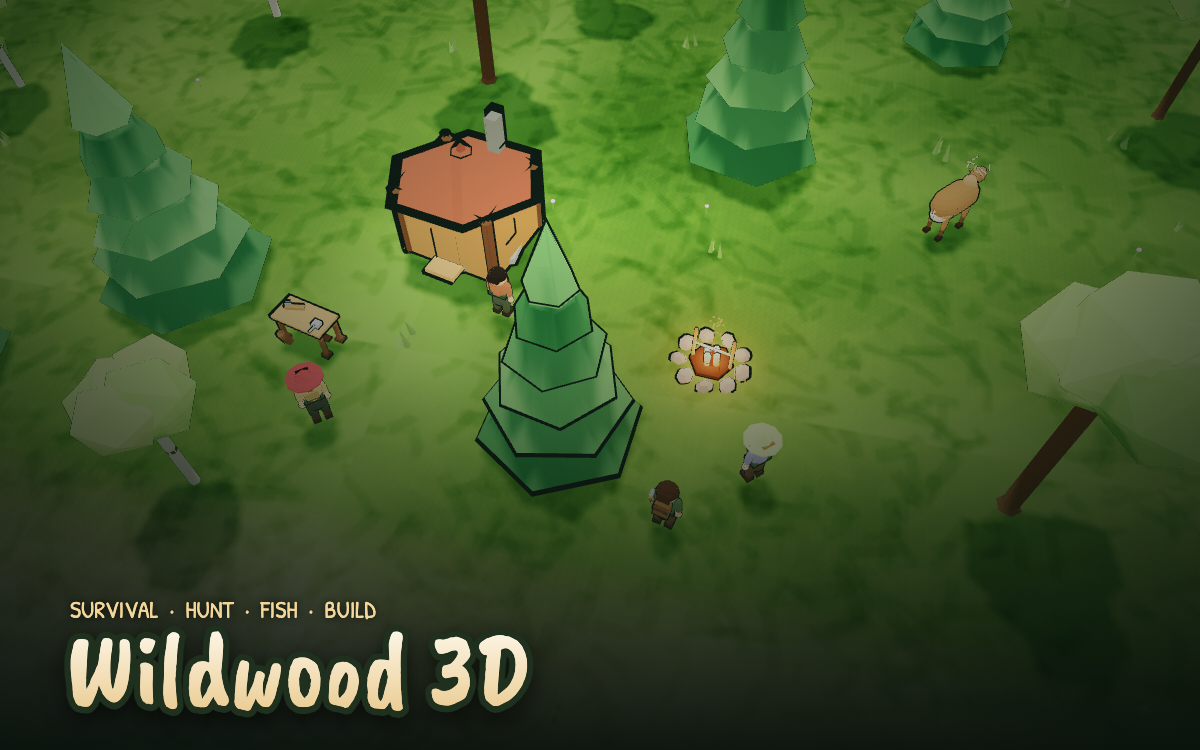
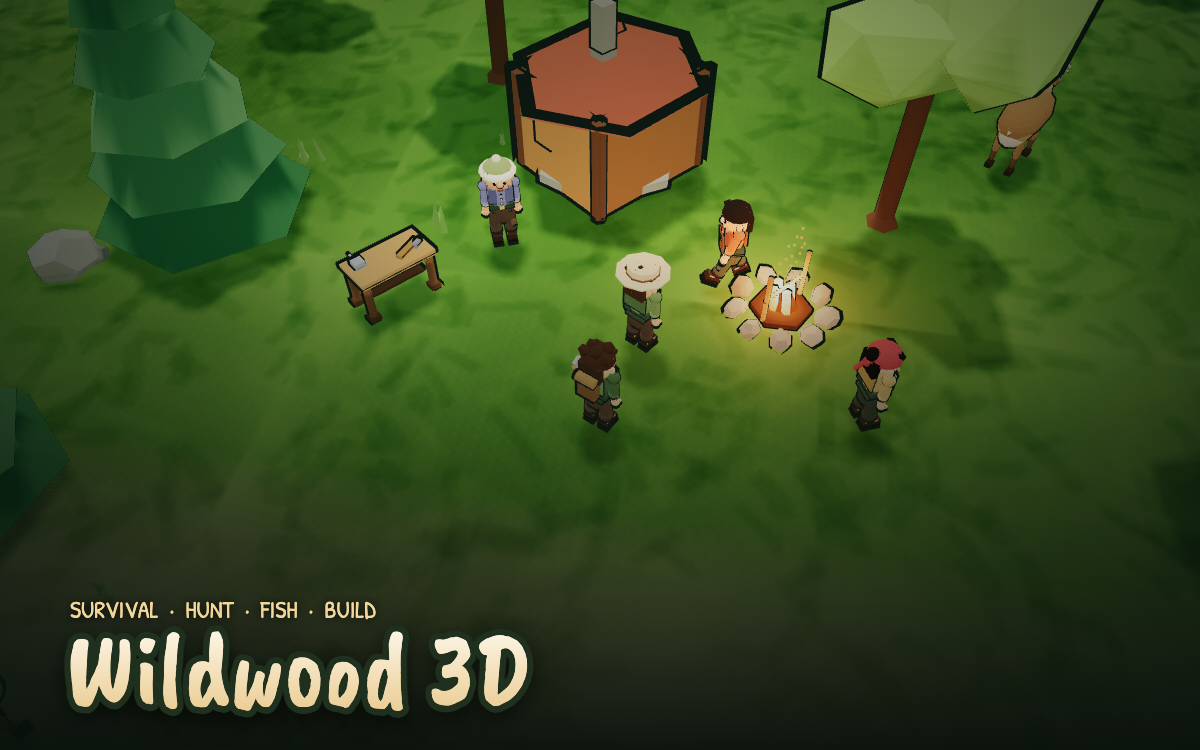
Give the settlers real faces, hair and gear.
Rebuild the character model from merged, vertex-coloured parts: eyes with
catchlights, brows, a smile, ears and cheeks; five hair styles, five hat
styles, scarves, aprons, satchels and a bedroll on the pack. Each settler
gets a distinct build and head size, and the crew column now draws a small
portrait of the face instead of a letter.

diff --git a/games/wildwood-3d.html b/games/wildwood-3d.html
@@ -97,13 +97,22 @@
   #crew .mate{position:relative;width:42px;height:42px;border:2.5px solid var(--ink);border-radius:50%;background:var(--paper2);
     display:grid;place-items:center;padding:0;cursor:pointer;box-shadow:2px 2px 0 var(--ink);transition:transform .12s,background .15s}
   #crew .mate:hover{background:#fffdf5;transform:translateX(-2px)}
-  #crew .mate b{font-family:var(--f-display);font-weight:400;font-size:21px;line-height:1}
-  #crew .mate i{position:absolute;right:-1px;bottom:-1px;width:13px;height:13px;border:2px solid var(--ink);border-radius:50%}
+  #crew .mate .pf{position:relative;display:block;width:29px;height:29px;border-radius:50%;overflow:hidden;background:var(--paper2)}
+  #crew .mate .pf i{position:absolute;display:block}
+  #crew .mate .pf .hd{left:1px;top:5px;width:27px;height:27px;border-radius:50%;background:var(--sk)}
+  #crew .mate .pf .hr{left:0;top:-4px;width:29px;height:16px;border-radius:0 0 14px 14px;background:var(--hr)}
+  #crew .mate .pf .ey{left:8px;top:14px;width:3px;height:4px;border-radius:1.5px;background:#2b2b2b;box-shadow:10px 0 0 #2b2b2b}
+  #crew .mate .pf .ht{left:0;top:0;width:29px;height:7px;border-radius:0 0 4px 4px;background:var(--ht)}
+  #crew .mate > i{position:absolute;right:-1px;bottom:-1px;width:13px;height:13px;border:2px solid var(--ink);border-radius:50%}
   #crew .mate.on{background:var(--honey);transform:translateX(-5px)}
   @media(max-width:760px){
     #crew{right:auto;left:8px;top:46%;transform:translateY(-50%);gap:4px;max-height:44vh}
     #crew .mate{width:34px;height:34px}
-    #crew .mate b{font-size:17px}
+    #crew .mate .pf{width:24px;height:24px}
+    #crew .mate .pf .hd{width:22px;height:22px;top:4px}
+    #crew .mate .pf .hr{width:24px;height:13px}
+    #crew .mate .pf .ey{left:6px;top:12px;box-shadow:9px 0 0 #2b2b2b}
+    #crew .mate .pf .ht{width:24px}
   }
   #zoom{position:fixed;right:10px;bottom:calc(10px + env(safe-area-inset-bottom));z-index:5;display:flex;flex-direction:column;gap:6px}
   #zoom .btn{width:42px;height:42px;justify-content:center;font-size:22px;padding:0}
@@ -801,75 +810,180 @@ function flowerModel(seed) {
    ============================================================ */
 function makePlayer(look) {
   const L = Object.assign({
-    shirt: PAL.shirt, pants: PAL.pants, boot: PAL.boot, hair: PAL.hair, skin: PAL.skin,
-    vest: 0x6b8a5c, belt: 0x3e5340, pack: true, hat: null,
+    shirt: PAL.shirt, shirt2: PAL.shirt2, pants: PAL.pants, boot: PAL.boot,
+    hair: PAL.hair, skin: PAL.skin, skin2: PAL.skin2, vest: 0x6b8a5c, belt: 0x3e5340,
+    brow: 0x3a2b22, pack: true, hat: null, hatStyle: 'brim', hairStyle: 'tousled',
+    build: 1, headScale: 1, scarf: null, apron: null, satchel: null,
   }, look || {});
+
   const root = new THREE.Group();
   const rig = new THREE.Group();
   root.add(rig);
-  const add = (parent, geo, color, pos, rot, scale) => {
-    const m = new THREE.Mesh(geo, toon(color));
-    m.position.set(...(pos || [0, 0, 0]));
-    if (rot) m.rotation.set(...rot);
-    if (scale) m.scale.set(...scale);
+  const W = L.build || 1;
+  const HS = L.headScale || 1;
+
+  // every body part is merged down to a single coloured mesh: fewer draw calls,
+  // but much more detail than one block per limb
+  const part = (parent, parts, noInk) => {
+    const m = new THREE.Mesh(mergeV(parts), toonV);
     m.castShadow = true; m.receiveShadow = false;
+    if (noInk) m.userData.noInk = true;
     parent.add(m);
     return m;
   };
 
+  /* ---- hips ---- */
   const hips = new THREE.Group(); hips.position.y = 0.78; rig.add(hips);
-  add(hips, G.capsule, L.pants, [0, -0.08, 0], [0, 0, 0], [0.19, 0.16, 0.18]);
+  part(hips, [
+    P(G.capsule, L.pants, [0, -0.08, 0], [0, 0, 0], [0.19 * W, 0.16, 0.18]),
+    P(G.box, L.belt, [0, 0.02, -0.02], [0, 0, 0], [0.36 * W, 0.07, 0.3]),
+  ]);
 
+  /* ---- legs: thigh, rolled cuff, ankle boot with sole and lace strap ---- */
   const leg = side => {
     const g = new THREE.Group();
     g.position.set(0.14 * side, 0.02, 0);
     hips.add(g);
-    add(g, G.capsule, L.pants, [0, -0.3, 0], [0, 0, 0], [0.105, 0.22, 0.105]);
-    add(g, G.box, L.boot, [0, -0.62, 0.045], [0, 0, 0], [0.17, 0.13, 0.27]);
+    const parts = [
+      P(G.capsule, L.pants, [0, -0.3, 0], [0, 0, 0], [0.108, 0.22, 0.108]),
+      P(G.cyl, L.pants, [0, -0.465, 0], [0, 0, 0], [0.118, 0.07, 0.118]),
+      P(G.cyl, L.boot, [0, -0.55, 0], [0, 0, 0], [0.106, 0.09, 0.106]),
+      P(G.box, L.boot, [0, -0.625, 0.05], [0, 0, 0], [0.17, 0.13, 0.28]),
+      P(G.box, 0x2b221a, [0, -0.687, 0.055], [0, 0, 0], [0.185, 0.045, 0.3]),
+      P(G.box, 0xbfa072, [0, -0.578, 0.035], [0, 0, 0], [0.176, 0.028, 0.235]),
+    ];
+    if (side > 0) parts.push(P(G.box, 0x6f5b46, [0.055, -0.32, 0.095], [0, 0, 0.2], [0.11, 0.11, 0.03]));
+    part(g, parts);
     return g;
   };
   const legR = leg(1), legL = leg(-1);
 
+  /* ---- torso: shirt, open vest, collar, buttons, belt, extras ---- */
   const torso = new THREE.Group(); torso.position.y = 0.86; rig.add(torso);
-  add(torso, G.capsule, L.shirt, [0, 0.28, 0], [0, 0, 0], [0.25, 0.22, 0.21]);
-  add(torso, G.box, L.vest, [0, 0.3, 0.16], [0, 0, 0], [0.3, 0.22, 0.14]);
-  add(torso, G.box, L.belt, [0, 0.06, 0], [0, 0, 0], [0.46, 0.1, 0.32]);
-  // backpack
+  const T = [
+    P(G.capsule, L.shirt, [0, 0.28, 0], [0, 0, 0], [0.235 * W, 0.22, 0.2]),
+    P(G.box, L.vest, [-0.155 * W, 0.3, 0.115], [0, -0.2, 0], [0.16 * W, 0.32, 0.1]),
+    P(G.box, L.vest, [0.155 * W, 0.3, 0.115], [0, 0.2, 0], [0.16 * W, 0.32, 0.1]),
+    P(G.box, L.vest, [0, 0.3, -0.175], [0, 0, 0], [0.42 * W, 0.3, 0.04]),
+    P(G.box, L.shirt2, [0, 0.45, 0.08], [0.22, 0, 0], [0.3 * W, 0.07, 0.17]),
+    P(G.box, L.belt, [0, 0.05, 0], [0, 0, 0], [0.47 * W, 0.1, 0.31]),
+    P(G.box, 0xd9b25e, [0, 0.05, 0.165], [0, 0, 0], [0.095, 0.095, 0.03]),
+  ];
+  for (let i = 0; i < 3; i++) T.push(P(G.sphereLo, 0xe9dab4, [0, 0.15 + i * 0.095, 0.198], [0, 0, 0], [0.023, 0.023, 0.014]));
+  if (L.apron) {
+    T.push(P(G.box, L.apron, [0, 0.1, 0.19], [0.04, 0, 0], [0.3 * W, 0.44, 0.035]));
+    T.push(P(G.box, L.apron, [0, 0.42, 0.13], [0.12, 0, 0], [0.07, 0.26, 0.03]));
+    T.push(P(G.box, 0x4a3b2c, [0, 0.2, 0.205], [0, 0, 0], [0.12, 0.06, 0.02]));
+  }
+  if (L.scarf) {
+    T.push(P(G.torus, L.scarf, [0, 0.455, 0.01], [Math.PI / 2, 0, 0], [0.15, 0.15, 0.55]));
+    T.push(P(G.box, L.scarf, [0.11, 0.3, 0.14], [0.15, 0, 0.18], [0.11, 0.25, 0.04]));
+    T.push(P(G.box, L.scarf, [0.11, 0.19, 0.16], [0.15, 0, 0.18], [0.1, 0.05, 0.035]));
+  }
+  if (L.satchel) {
+    T.push(P(G.box, L.satchel, [0.255 * W, 0.02, 0.0], [0, 0.8, 0.25], [0.1, 0.12, 0.075]));
+    T.push(P(G.box, 0x53402a, [0.03, 0.3, 0.14], [0, 0, -1.25], [0.035, 0.52, 0.035]));
+  }
   if (L.pack) {
-    add(torso, G.box, 0x7a5b3c, [0, 0.3, -0.24], [0, 0, 0], [0.34, 0.36, 0.2]);
-    add(torso, G.box, 0x62482f, [0, 0.44, -0.35], [0, 0, 0], [0.3, 0.1, 0.06]);
+    T.push(P(G.box, 0x7a5b3c, [0, 0.28, -0.24], [0, 0, 0], [0.32 * W, 0.36, 0.19]));
+    T.push(P(G.box, 0x62482f, [0, 0.43, -0.25], [0.12, 0, 0], [0.3 * W, 0.1, 0.18]));
+    T.push(P(G.cyl, 0x9a7b52, [0, 0.5, -0.31], [0, 0, Math.PI / 2], [0.085, 0.34, 0.085]));
+    T.push(P(G.box, 0x53402a, [-0.1 * W, 0.28, 0.07], [0, 0, 0.06], [0.05, 0.4, 0.06]));
+    T.push(P(G.box, 0x53402a, [0.1 * W, 0.28, 0.07], [0, 0, -0.06], [0.05, 0.4, 0.06]));
   }
+  part(torso, T);
 
-  // head
-  const head = new THREE.Group(); head.position.y = 1.46; rig.add(head);
-  head.add(new THREE.Mesh(G.sphere, toon(L.skin)));
-  head.children[0].scale.set(0.235, 0.25, 0.225);
-  head.children[0].castShadow = true;
-  add(head, G.sphere, L.skin, [0, -0.02, 0.2], [0, 0, 0], [0.08, 0.07, 0.08]); // nose
-  const hair = add(head, G.half, L.hair, [0, 0.035, 0], [0, 0, 0], [0.245, 0.235, 0.24]);
-  hair.userData.noInk = true;
-  hair.receiveShadow = false;
-  add(head, G.box, L.hair, [0, 0.1, -0.18], [0.3, 0, 0], [0.3, 0.2, 0.16]).userData.noInk = true;
-  if (L.hat) {
-    add(head, G.cyl, L.hat, [0, 0.17, 0], [0, 0, 0], [0.44, 0.04, 0.44]).userData.noInk = true;
-    add(head, G.cone6, L.hat, [0, 0.28, 0], [0, 0, 0], [0.25, 0.2, 0.25]).userData.noInk = true;
-  }
-  add(head, G.sphereLo, 0x2b2b2b, [-0.085, 0.03, 0.19], [0, 0, 0], [0.028, 0.032, 0.02]);
-  add(head, G.sphereLo, 0x2b2b2b, [0.085, 0.03, 0.19], [0, 0, 0], [0.028, 0.032, 0.02]);
-
+  /* ---- arms: puffed shoulder, sleeve, cuff, forearm, hand and thumb ---- */
   const arm = side => {
     const g = new THREE.Group();
-    g.position.set(0.28 * side, 1.3, 0);
+    g.position.set(0.285 * side, 1.3, 0);
     rig.add(g);
-    add(g, G.capsule, L.shirt, [0, -0.19, 0], [0, 0, side * 0.09], [0.082, 0.17, 0.082]);
-    add(g, G.capsule, L.skin, [0.01 * side, -0.44, 0.01], [0, 0, side * 0.09], [0.072, 0.06, 0.072]);
-    add(g, G.sphere, L.skin, [0.02 * side, -0.56, 0.01], [0, 0, 0], [0.085, 0.09, 0.075]);
+    part(g, [
+      P(G.sphere, L.shirt, [0, 0.02, 0], [0, 0, 0], [0.1, 0.095, 0.1]),
+      P(G.capsule, L.shirt, [0, -0.19, 0], [0, 0, side * 0.08], [0.082, 0.17, 0.082]),
+      P(G.cyl, L.shirt2, [0, -0.335, 0], [0, 0, side * 0.08], [0.087, 0.055, 0.087]),
+      P(G.capsule, L.skin, [0.01 * side, -0.44, 0.01], [0, 0, side * 0.08], [0.07, 0.06, 0.07]),
+      P(G.sphere, L.skin, [0.02 * side, -0.55, 0.02], [0, 0, 0], [0.078, 0.082, 0.072]),
+      P(G.sphere, L.skin, [0.02 * side + 0.055 * side, -0.53, 0.06], [0, 0, 0], [0.032, 0.036, 0.03]),
+    ]);
     const hand = new THREE.Group();
     hand.position.set(0.02 * side, -0.56, 0.03);
     g.add(hand);
     return { g, hand };
   };
   const armR = arm(1), armL = arm(-1);
+
+  /* ---- head: skull, ears, nose ---- */
+  const head = new THREE.Group(); head.position.y = 1.46; rig.add(head);
+  part(head, [
+    P(G.sphere, L.skin, [0, 0, 0], [0, 0, 0], [0.25 * HS, 0.265 * HS, 0.24 * HS]),
+    P(G.sphere, L.skin, [-0.24 * HS, 0.0, 0], [0, 0, 0], [0.055 * HS, 0.072 * HS, 0.052 * HS]),
+    P(G.sphere, L.skin, [0.24 * HS, 0.0, 0], [0, 0, 0], [0.055 * HS, 0.072 * HS, 0.052 * HS]),
+    P(G.sphere, L.skin, [0, -0.012, 0.214 * HS], [0, 0, 0], [0.062 * HS, 0.055 * HS, 0.062 * HS]),
+  ]);
+
+  /* ---- face: eyes with catchlights, brows, mouth, cheeks (no outline) ---- */
+  part(head, [
+    P(G.sphereLo, 0x241f1c, [-0.088 * HS, 0.028 * HS, 0.213 * HS], [0, 0, 0], [0.036, 0.044, 0.028]),
+    P(G.sphereLo, 0x241f1c, [0.088 * HS, 0.028 * HS, 0.213 * HS], [0, 0, 0], [0.036, 0.044, 0.028]),
+    P(G.sphereLo, 0xffffff, [-0.078 * HS, 0.044 * HS, 0.234 * HS], [0, 0, 0], [0.014, 0.014, 0.009]),
+    P(G.sphereLo, 0xffffff, [0.098 * HS, 0.044 * HS, 0.234 * HS], [0, 0, 0], [0.014, 0.014, 0.009]),
+    P(G.box, L.brow, [-0.09 * HS, 0.105 * HS, 0.222 * HS], [0, 0, 0.2], [0.082, 0.02, 0.022]),
+    P(G.box, L.brow, [0.09 * HS, 0.105 * HS, 0.222 * HS], [0, 0, -0.2], [0.082, 0.02, 0.022]),
+    P(G.box, 0x8c4a44, [0, -0.118 * HS, 0.243 * HS], [0.16, 0, 0], [0.086, 0.022, 0.022]),
+    P(G.box, 0x8c4a44, [-0.045 * HS, -0.108 * HS, 0.235 * HS], [0.16, 0.4, 0.5], [0.026, 0.02, 0.02]),
+    P(G.box, 0x8c4a44, [0.045 * HS, -0.108 * HS, 0.235 * HS], [0.16, -0.4, -0.5], [0.026, 0.02, 0.02]),
+    P(G.sphereLo, 0xd98f7a, [-0.172 * HS, -0.055 * HS, 0.182 * HS], [0, 0, 0], [0.05, 0.036, 0.022]),
+    P(G.sphereLo, 0xd98f7a, [0.172 * HS, -0.055 * HS, 0.182 * HS], [0, 0, 0], [0.05, 0.036, 0.022]),
+  ], true);
+
+  /* ---- hair ---- */
+  const style = L.hairStyle || 'cap';
+  const hairParts = [];
+  if (style !== 'bald') {
+    hairParts.push(P(G.half, L.hair, [0, 0.105, 0], [0, 0, 0], [0.272 * HS, 0.215 * HS, 0.258 * HS]));
+    hairParts.push(P(G.box, L.hair, [0, 0.215, 0.15], [0.35, 0, 0], [0.4 * HS, 0.07, 0.12]));
+    hairParts.push(P(G.box, L.hair, [0, 0.0, -0.2], [0, 0, 0], [0.4 * HS, 0.3, 0.1]));
+  }
+  if (style === 'tousled') {
+    const spots = [[-0.1, 0.3, 0.1], [0.12, 0.305, 0.02], [-0.02, 0.33, -0.09], [0.18, 0.25, -0.1], [-0.18, 0.24, -0.07]];
+    for (const [x, y, z] of spots) hairParts.push(P(G.icoLo, L.hair, [x, y, z], [x * 9, y * 8, z * 6], [0.115, 0.1, 0.115]));
+  } else if (style === 'bun') {
+    hairParts.push(P(G.sphere, L.hair, [0, 0.19, -0.21], [0, 0, 0], [0.115, 0.115, 0.115]));
+    hairParts.push(P(G.torus, 0x8a6a48, [0, 0.16, -0.2], [0.5, 0, 0], [0.09, 0.09, 0.09]));
+  } else if (style === 'long') {
+    hairParts.push(P(G.box, L.hair, [-0.2, -0.13, -0.05], [0, 0, 0.06], [0.085, 0.44, 0.17]));
+    hairParts.push(P(G.box, L.hair, [0.2, -0.13, -0.05], [0, 0, -0.06], [0.085, 0.44, 0.17]));
+    hairParts.push(P(G.box, L.hair, [0, -0.14, -0.21], [0, 0, 0], [0.34, 0.46, 0.09]));
+  }
+  if (hairParts.length) part(head, hairParts, true);
+
+  /* ---- hats ---- */
+  if (L.hat) {
+    const H2 = [];
+    const st = L.hatStyle || 'brim';
+    if (st === 'cap') {
+      H2.push(P(G.half, L.hat, [0, 0.14, 0], [0, 0, 0], [0.285 * HS, 0.225 * HS, 0.285 * HS]));
+      H2.push(P(G.box, L.hat, [0, 0.16, 0.215], [0.1, 0, 0], [0.38 * HS, 0.045, 0.22]));
+      H2.push(P(G.sphereLo, 0x7a5b3c, [0, 0.36, 0], [0, 0, 0], [0.033, 0.033, 0.033]));
+    } else if (st === 'beanie') {
+      H2.push(P(G.half, L.hat, [0, 0.13, 0], [0, 0, 0], [0.29 * HS, 0.27 * HS, 0.29 * HS]));
+      H2.push(P(G.torus, 0xf3ead6, [0, 0.17, 0], [Math.PI / 2, 0, 0], [0.27 * HS, 0.27 * HS, 0.27 * HS]));
+      H2.push(P(G.sphere, 0xf3ead6, [0, 0.4, 0], [0, 0, 0], [0.085, 0.085, 0.085]));
+    } else if (st === 'bandana') {
+      H2.push(P(G.half, L.hat, [0, 0.1, 0], [0, 0, 0], [0.28 * HS, 0.225 * HS, 0.28 * HS]));
+      H2.push(P(G.box, L.hat, [0, 0.06, -0.26], [0, 0, 0.3], [0.12, 0.13, 0.09]));
+      H2.push(P(G.box, L.hat, [0.1, -0.13, -0.3], [0.2, 0, 0.35], [0.06, 0.26, 0.05]));
+    } else if (st === 'hood') {
+      H2.push(P(G.half, L.hat, [0, 0.09, -0.03], [0, 0, 0], [0.325 * HS, 0.31 * HS, 0.325 * HS]));
+      H2.push(P(G.box, L.hat, [0, -0.12, -0.2], [0, 0, 0], [0.44 * HS, 0.38, 0.14]));
+    } else {
+      H2.push(P(G.cyl, L.hat, [0, 0.25, 0], [0, 0, 0], [0.46 * HS, 0.032, 0.46 * HS]));
+      H2.push(P(G.cyl, L.hat, [0, 0.34, 0], [0, 0, 0], [0.275 * HS, 0.14, 0.275 * HS]));
+      H2.push(P(G.cyl, 0x7a5b3c, [0, 0.275, 0], [0, 0, 0], [0.288 * HS, 0.036, 0.288 * HS]));
+    }
+    part(head, H2, true);
+  }
 
   root.userData = { rig, hips, torso, head, legL, legR, armL: armL.g, armR: armR.g, handR: armR.hand, handL: armL.hand, phase: 0 };
   return root;
@@ -1813,14 +1927,15 @@ const FOLK_TXT = {
 const ft = k => (FOLK_TXT[k] || {})[LANG] || k;
 
 const VILLAGER_LOOKS = [
-  { shirt: 0x6f8f5c, vest: 0x53704a, pants: 0x53463a, hair: 0x4a3524, hat: 0xd9c9a3 },
-  { shirt: 0xb5714f, vest: 0x8f573c, pants: 0x4f5b45, hair: 0x2f2a24, hat: null },
-  { shirt: 0x7f86b0, vest: 0x646b92, pants: 0x54473a, hair: 0x8a6a3a, hat: 0x9fb37a },
-  { shirt: 0xc9a86a, vest: 0xa68a52, pants: 0x3f4a3c, hair: 0x1f1c18, hat: 0xb8484f },
-  { shirt: 0x8fa86a, vest: 0x6f8850, pants: 0x5b4a3a, hair: 0x53382a, hat: null },
-  { shirt: 0xa2697f, vest: 0x825066, pants: 0x463f36, hair: 0x2b2b2b, hat: 0x8a9a6a },
-  { shirt: 0x5f8f8a, vest: 0x477470, pants: 0x4a3f34, hair: 0x7a5a34, hat: 0xe7d8b4 },
-  { shirt: 0xb98a4a, vest: 0x9a7038, pants: 0x39433a, hair: 0x241f1a, hat: null },
+  { shirt: 0x6f8f5c, shirt2: 0x82a26c, vest: 0x53704a, pants: 0x53463a, hair: 0x4a3524, hat: 0xd9c9a3, hatStyle: 'brim', hairStyle: 'tousled', scarf: 0xb8484f, build: 1.02 },
+  { shirt: 0xb5714f, shirt2: 0xc98460, vest: 0x8f573c, pants: 0x4f5b45, hair: 0x2f2a24, hat: null, hairStyle: 'cap', apron: 0x7a5b3c, build: 1.12, headScale: 1.04 },
+  { shirt: 0x7f86b0, shirt2: 0x929bc6, vest: 0x646b92, pants: 0x54473a, hair: 0x8a6a3a, hat: 0x9fb37a, hatStyle: 'beanie', hairStyle: 'long', build: 0.94, skin: 0xdfae84, skin2: 0xcfa078 },
+  { shirt: 0xc9a86a, shirt2: 0xdcbe86, vest: 0xa68a52, pants: 0x3f4a3c, hair: 0x1f1c18, hat: 0xb8484f, hatStyle: 'bandana', hairStyle: 'bun', satchel: 0x8a6a3a },
+  { shirt: 0x8fa86a, shirt2: 0xa4bd7e, vest: 0x6f8850, pants: 0x5b4a3a, hair: 0x53382a, hat: null, hairStyle: 'tousled', scarf: 0xe7d8b4, skin: 0xe8bd93 },
+  { shirt: 0xa2697f, shirt2: 0xba7e94, vest: 0x825066, pants: 0x463f36, hair: 0x2b2b2b, hat: 0x8a9a6a, hatStyle: 'cap', hairStyle: 'cap', build: 1.06 },
+  { shirt: 0x5f8f8a, shirt2: 0x76a7a2, vest: 0x477470, pants: 0x4a3f34, hair: 0x7a5a34, hat: 0xe7d8b4, hatStyle: 'brim', hairStyle: 'long', apron: 0x54706a, build: 0.96 },
+  { shirt: 0xb98a4a, shirt2: 0xcc9f60, vest: 0x9a7038, pants: 0x39433a, hair: 0x241f1a, hat: null, hairStyle: 'bald', satchel: 0x6b5436, build: 1.1, headScale: 1.05 },
+  { shirt: 0x8a6f9e, shirt2: 0x9c83b0, vest: 0x6d5580, pants: 0x453f3a, hair: 0x33291f, hat: 0x6f8f5c, hatStyle: 'hood', hairStyle: 'cap', skin: 0xd8a97e, skin2: 0xc79a72 },
 ];
 const VILLAGER_NAMES = ['Ash', 'Birch', 'Rowan', 'Elm', 'Hazel', 'Juniper', 'Willow', 'Oak', 'Moss', 'Fern', 'Ivy', 'Pine'];
 let villagerSerial = 0;
@@ -1846,7 +1961,7 @@ function villagerRing() {
 function spawnVillager(x, z, opts = {}) {
   const n = villagerSerial++;
   const look = VILLAGER_LOOKS[n % VILLAGER_LOOKS.length];
-  const model = inkGroup(makePlayer(Object.assign({ pack: false }, look)), 1.11);
+  const model = inkGroup(makePlayer(Object.assign({ pack: false }, look)), 1.1);
   const ring = villagerRing();
   model.add(ring);
   const y = heightAt(x, z);
@@ -1854,7 +1969,7 @@ function spawnVillager(x, z, opts = {}) {
   scene.add(model);
   const v = {
     id: 'v' + n + '-' + Math.random().toString(16).slice(2, 6),
-    name: opts.name || VILLAGER_NAMES[n % VILLAGER_NAMES.length],
+    name: opts.name || VILLAGER_NAMES[n % VILLAGER_NAMES.length], look,
     x, z, dir: Math.PI, speed: 0, walkPhase: Math.random() * 6,
     model, ud: model.userData, ring,
     job: opts.job || 'idle', state: 'idle', path: null, target: null, claimed: null,
@@ -2286,9 +2401,15 @@ function renderCrew() {
   const box = $('crew');
   if (!box) return;
   const colors = { wood: '#8a6a3a', stone: '#8d9182', forage: '#b8484f', build: '#e7b34a', idle: '#9fae9c' };
-  box.innerHTML = STATE.villagers.map((v, i) =>
-    `<button class="mate${v.selected ? ' on' : ''}" data-i="${i}" title="${v.name} · ${ft(v.job)}">
-      <b>${v.name.slice(0, 1)}</b><i style="background:${colors[v.job] || colors.idle}"></i></button>`).join('');
+  const hex = c => '#' + (c >>> 0).toString(16).padStart(6, '0');
+  box.innerHTML = STATE.villagers.map((v, i) => {
+    const k = v.look || {};
+    return `<button class="mate${v.selected ? ' on' : ''}" data-i="${i}" title="${v.name} · ${ft(v.job)}">
+      <span class="pf" style="--sk:${hex(k.skin || 0xe3b78d)};--hr:${hex(k.hair || 0x493426)};--ht:${k.hat ? hex(k.hat) : 'transparent'}">
+        <i class="hd"></i><i class="hr"></i><i class="ey"></i><i class="ht"></i>
+      </span>
+      <i style="background:${colors[v.job] || colors.idle}"></i></button>`;
+  }).join('');
   box.querySelectorAll('.mate').forEach(b => {
     b.onclick = () => {
       const v = STATE.villagers[+b.dataset.i];
